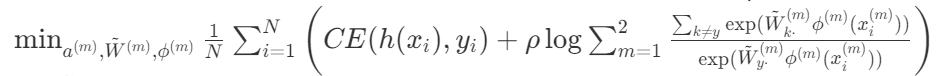
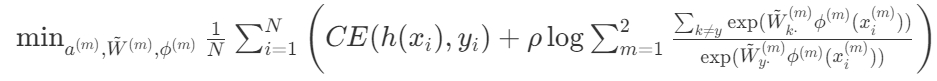
update the equation

diff --git a/README.md b/README.md
@@ -18,9 +18,8 @@ Here is the official PyTorch implementation of *Certifiable Robust Multi-modal T
 We observe that when encountering attack on different modality, multi-modal model can be vulnerable to certain modality. The following figure presents the how different multi-modal model performs in each uni-modal attack. As shown in the following figure, attack on the audio modality (#a, dot dash line) lead to more performance discrepancy than visual modality (#v, full line). That indicates that the preferred modality, audio, is not always the robust one, and thus should be paid attention on in multi-modal learning. 
 
 <!-- **the potential of multimodal information is not fully exploited even when the multimodal model outperforms its uni-modal counterpart.** We conduct linear probing experiments to explore the quality of jointly trained encoders, and find them under-optimized (the yellow line) compared with the uni-modal model (the red line). We proposed the OGM-GE method to improve the optimization process adaptively and achieved consistent improvement (the blue line). We improve both the multimodal performance and uni-model representation as shown in the following figure. -->
-<div style="text-align: center;">    
-<img src="pics/rob.jpg" width = "50%" />
-
+<div align="center">    
+<img src="pics/rob.jpg" width = "60%" />
 <figcaption style="font-family: Arial, sans-serif; font-size: 14px; color: #333;"> Accuracy of different multi-modal robust training methods compared with Joint Training (JT) baseline under $\ell_2$-PGD attack with a range of radius for modality #v (vision) and #a (audio) respectively on Kinetics Sounds dataset. Results show that all these methods are more vulnerable to attacks on the specific modality #$a$. </figcaption>
 </div>
 
@@ -44,8 +43,9 @@ With this newly proposed framework, the pipeline of our certified robust multi-m
 1. Optimize with cross-entropy loss and margin regularization with term $\rho$:  
   <div  align="center">    
 <img src="pics/step1.png" width = "80%" />
-</div>  
-   <!-- $\min_{{a}^{(m)}, \tilde{W}^{(m)}, \phi^{(m)}} \frac{1}{N} \sum_{i=1}^N \left(CE(h({x}_i), y_i) + \rho \log \sum_{m=1}^2 \frac{\sum_{k \neq y} \exp( \tilde{W}^{(m)}_{k\cdot} \phi^{(m)} ({x}_i^{(m)}))}{ \exp(\tilde{W}^{(m)}_{y\cdot} \phi^{(m)} ({x}_i^{(m)}))}\right), $ -->
+</div>
+
+   $\min_{{a}^{(m)}, \tilde{W}^{(m)}, \phi^{(m)}} \frac{1}{N} \sum_{i=1}^N \left(CE(h({x}_i), y_i) + \rho \log \sum_{m=1}^2 \frac{\sum_{k \neq y} \exp( \tilde{W}^{(m)}_{k\cdot} \phi^{(m)} ({x}_i^{(m)}))}{ \exp(\tilde{W}^{(m)}_{y\cdot} \phi^{(m)} ({x}_i^{(m)}))}\right), $
 
 2. Fix $\tilde{W}^{(m)}, \phi^{(m)}$, update ${a}^{(m)}$ to approach higher certified robustness: 
 $\min_{{a}^{(m)}}~~ L_2 = -\frac{1}{N} \sum_{i=1}^N r({x}_i),$ where $r({x})$ is the certified lower bound.
